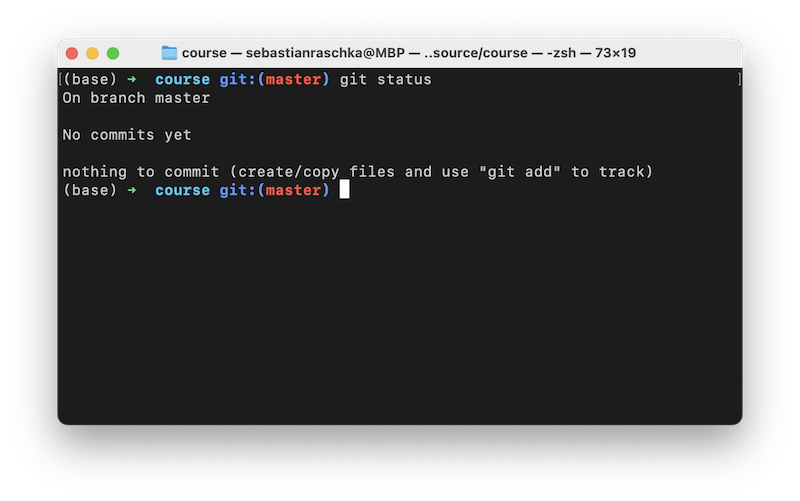
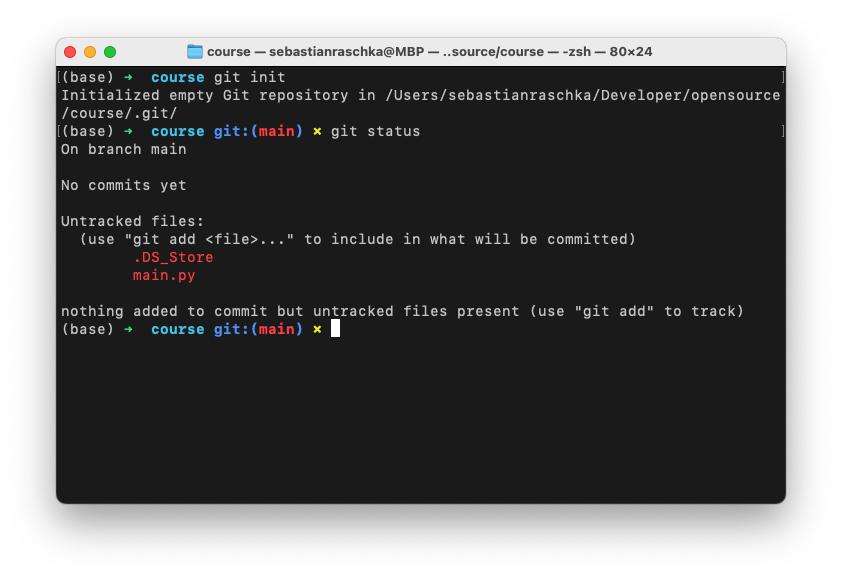
update figures

diff --git a/ep06-git-basics/Ep06-ShowNotes.md b/ep06-git-basics/Ep06-ShowNotes.md
@@ -10,6 +10,14 @@ Version control (also known as source control) allows us to track code changes a
 
 
 
+You can check whether Git is already installed by executing `git --version` on the command line.
+
+![](Ep06-ShowNotes_figures/git-version.png)
+
+If it turns out that Git is not already installed on your computer, you can download the latest version from the [Git website](https://git-scm.com/downloads).
+
+
+
 ## Git and GitHub
 
 You may have heard of GitHub before, and Git and GitHub are used almost synonymously these days. However, Git is actually the program we use for version control, and GitHub is a hosting platform. Most open-source projects use both. In this episode, we will focus on Git. The following episode will then focus on GitHub as a way to host our Git projects and how to code collaboratively.
@@ -20,14 +28,39 @@ You may have heard of GitHub before, and Git and GitHub are used almost synonymo
 
 
 
+**Renaming the Default Branch**
+
+
+
+If this is your first time using Git, we recommend executing the following command to change the global settings:
+
+```bash
+git config --global init.defaultBranch main
+```
+
+
+
+This will rename the default branch to `main`, which is the common standard for most coding and open-source projects.
+
+(Note that this is something you only need to do once.)
+
+
+
+
+
 ### 1) Creating and Checking Git Repositories
+
+
 
 - `git init`: this will create a new Git repository in the current folder.
 - `git status`: this will check the status of the current Git repository.
 
 ![](Ep06-ShowNotes_figures/git-status.png)
 
+
 Note that `git init` will simply add an "invisible" `.git` folder to your current directory where it stores all git-related information. Other than that, it will leave your local folder and file structure unchanged. So, if you change your mind and want convert the folder back from a Git repository to a regular folder, just delete the `.git` folder.
+
+If you see a `.DS_Store` (similar to in the screenshot above), this is a file created by macOS for Finder indexing and search properties. We can ignore it here.
 
 
 
